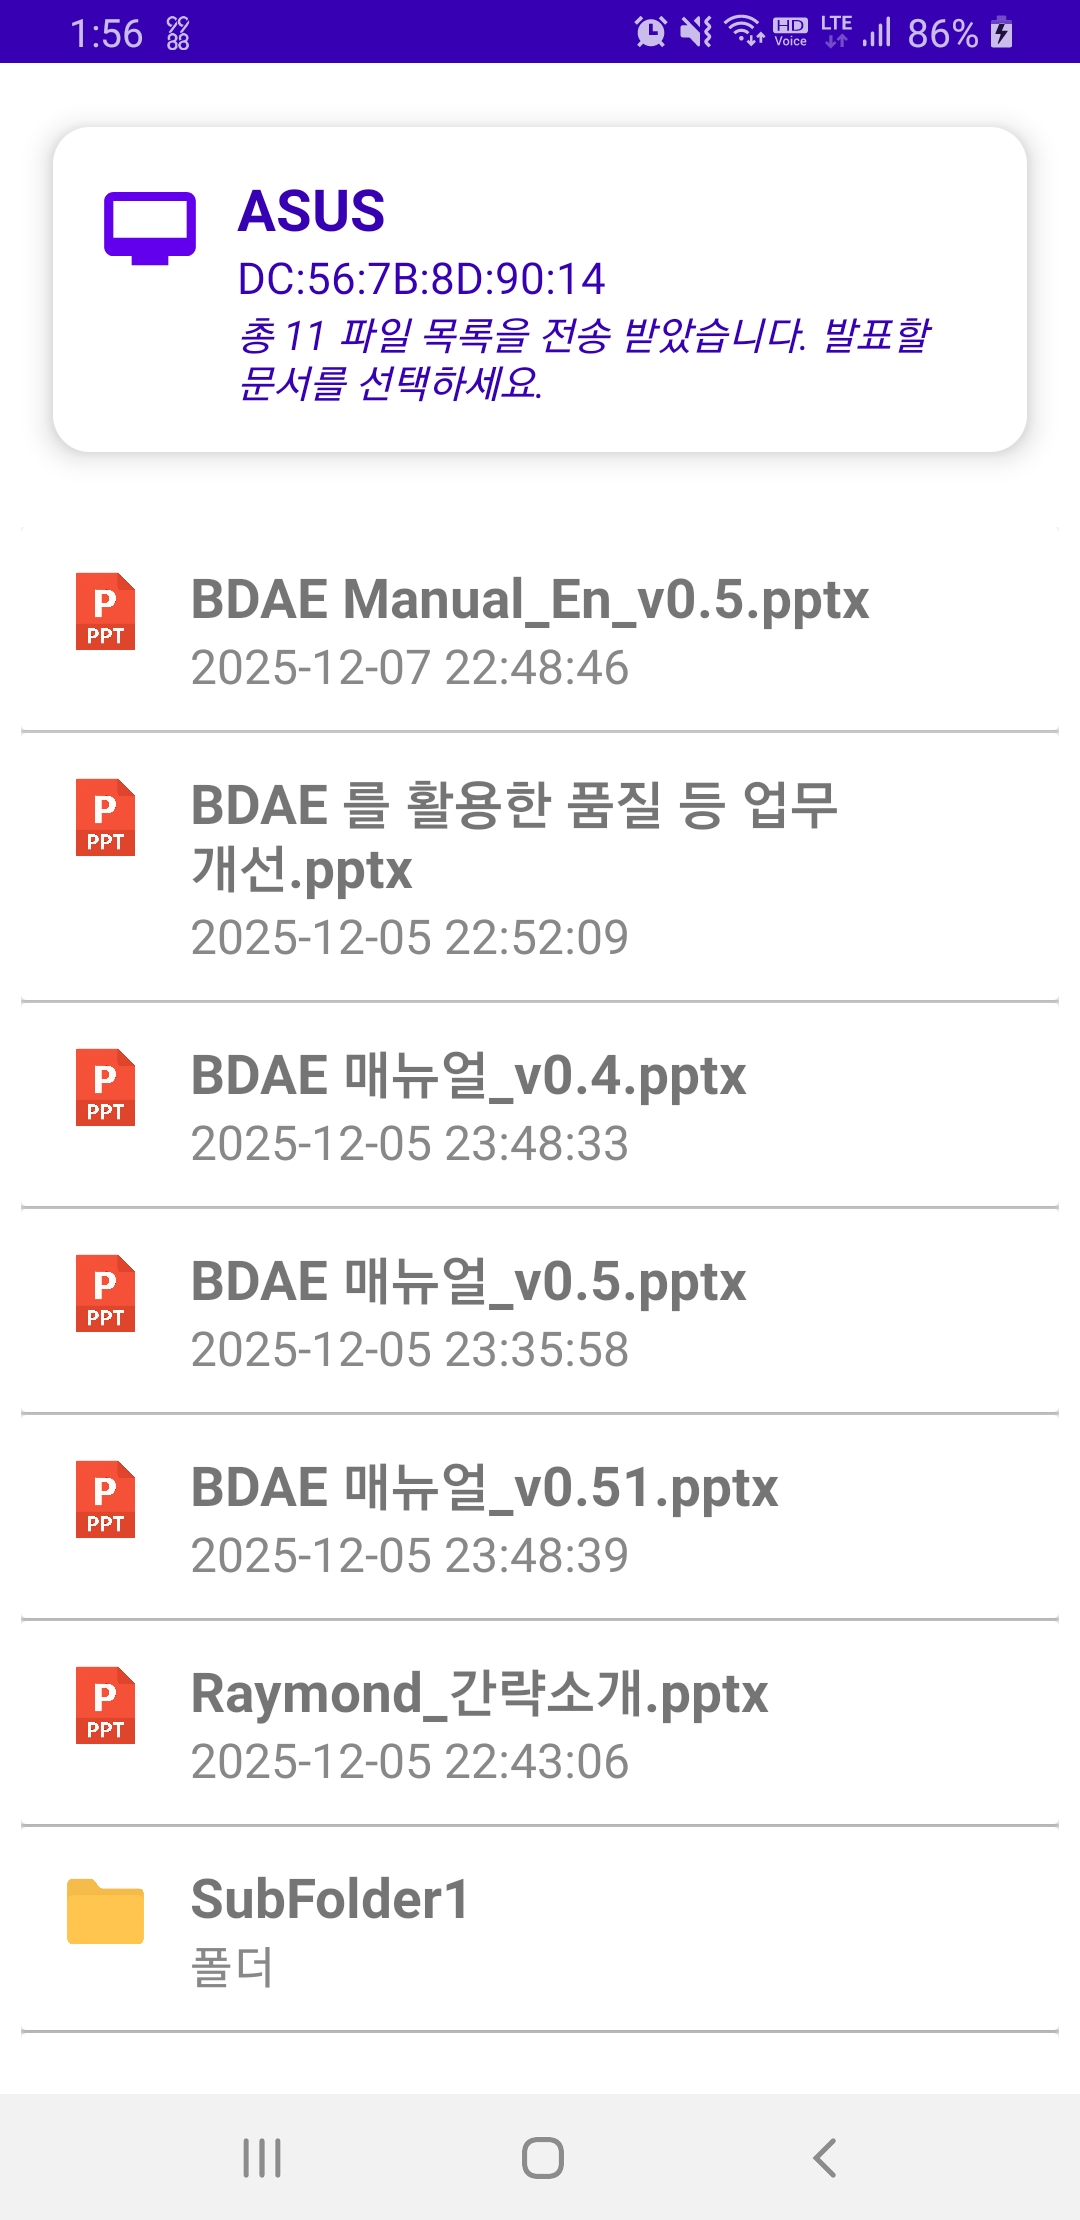
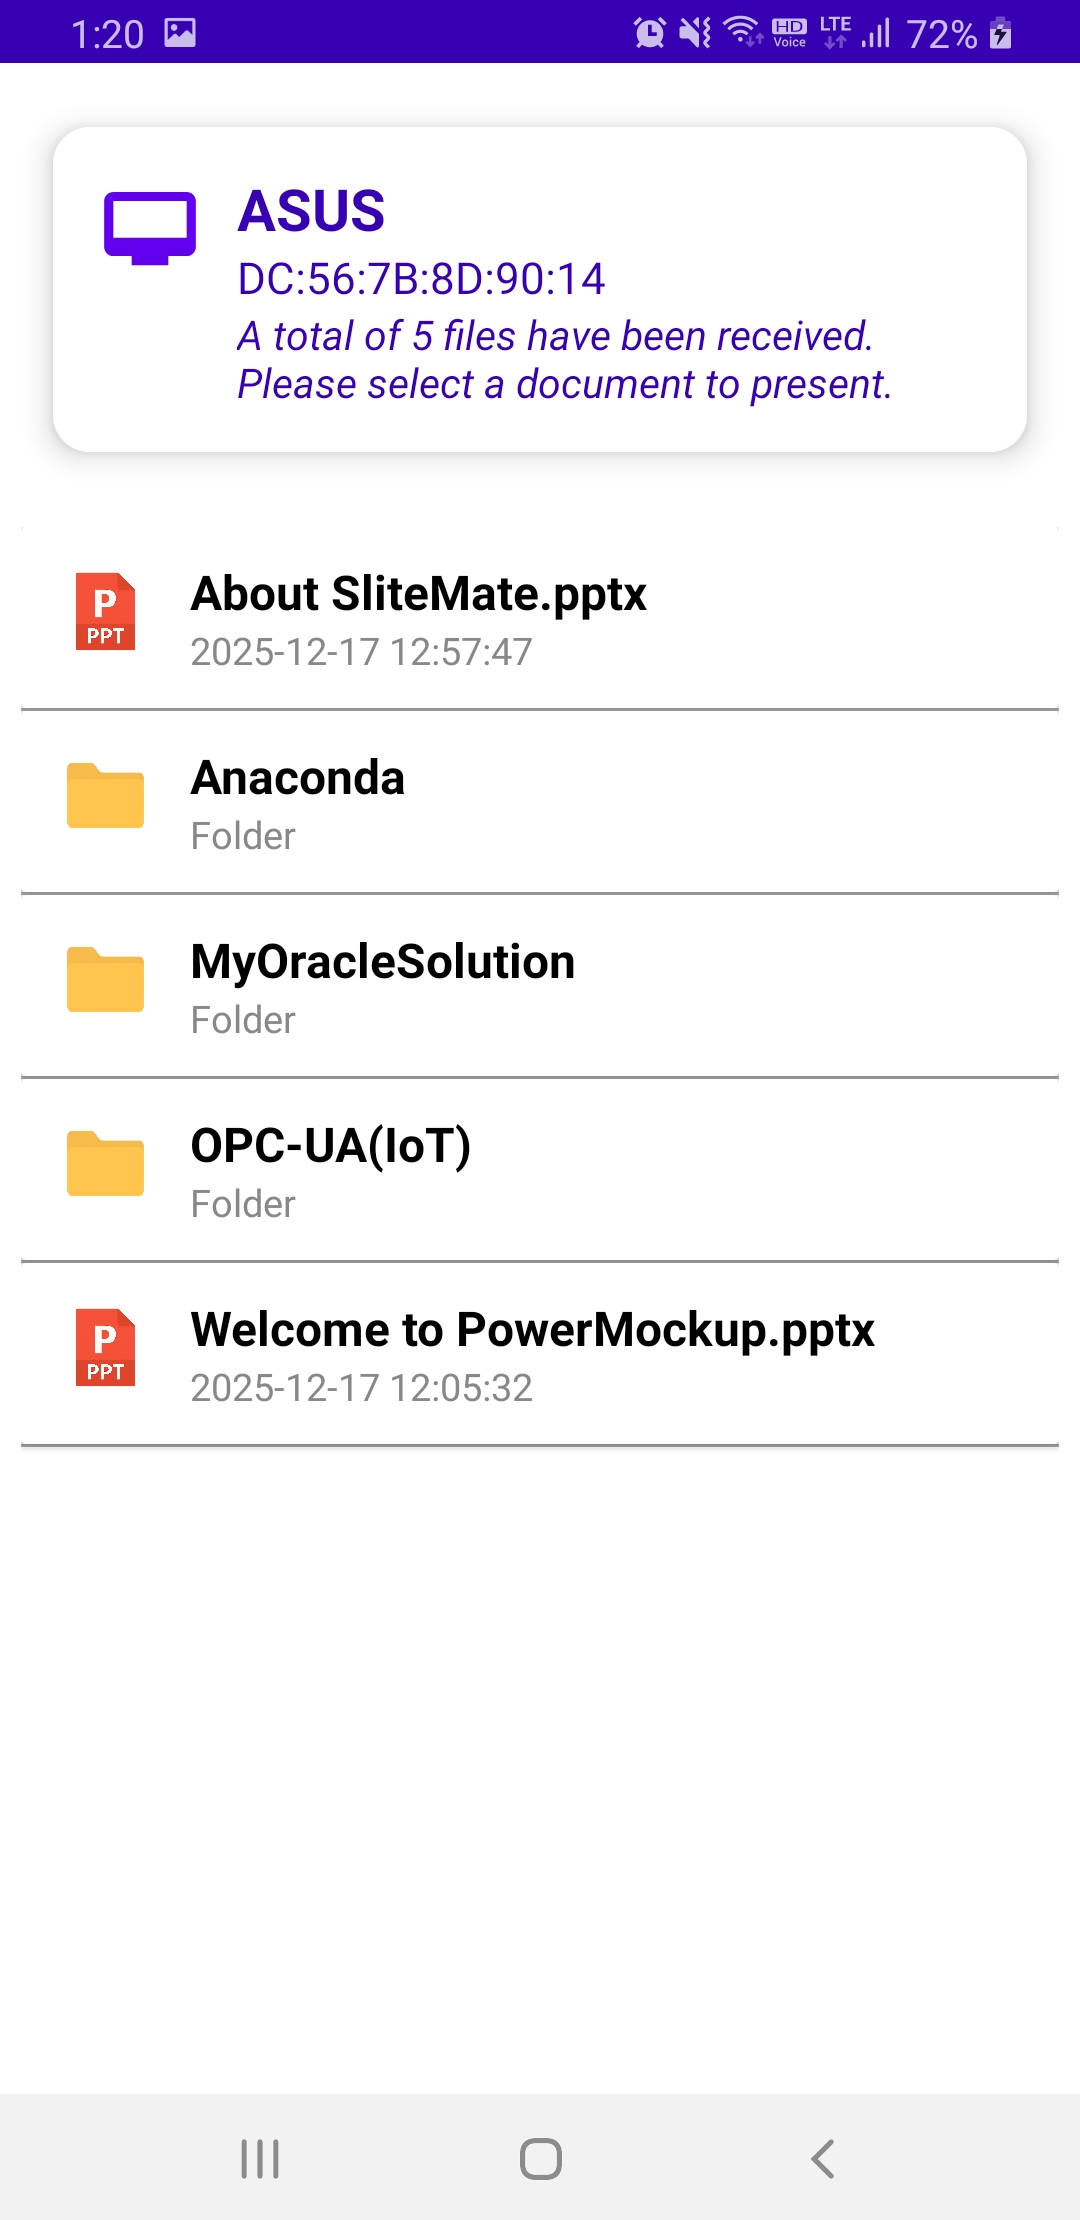
Update

diff --git a/_posts/2025-12-11-bppt.md b/_posts/2025-12-11-bppt.md
@@ -1,12 +1,12 @@
 ---
-title: BPPT Controller
+title: SlideMate Download
 author: Raymond
 date: 2025-12-11
 category: Jekyll
 layout: post
 ---
 
-## BPPT Controller
+## SlideMate: Presentation Helper
 This Android app helps you deliver PowerPoint presentations from your smartphone. The PC Manager and Android app communicate via Bluetooth, allowing you to open PowerPoint documents in specific folders, control the mouse, and navigate pages. This app is a bit plain and clunky, but I made it. ^^;;
 
 <img src="../assets/images/BPPT_MAIN.jpg">
